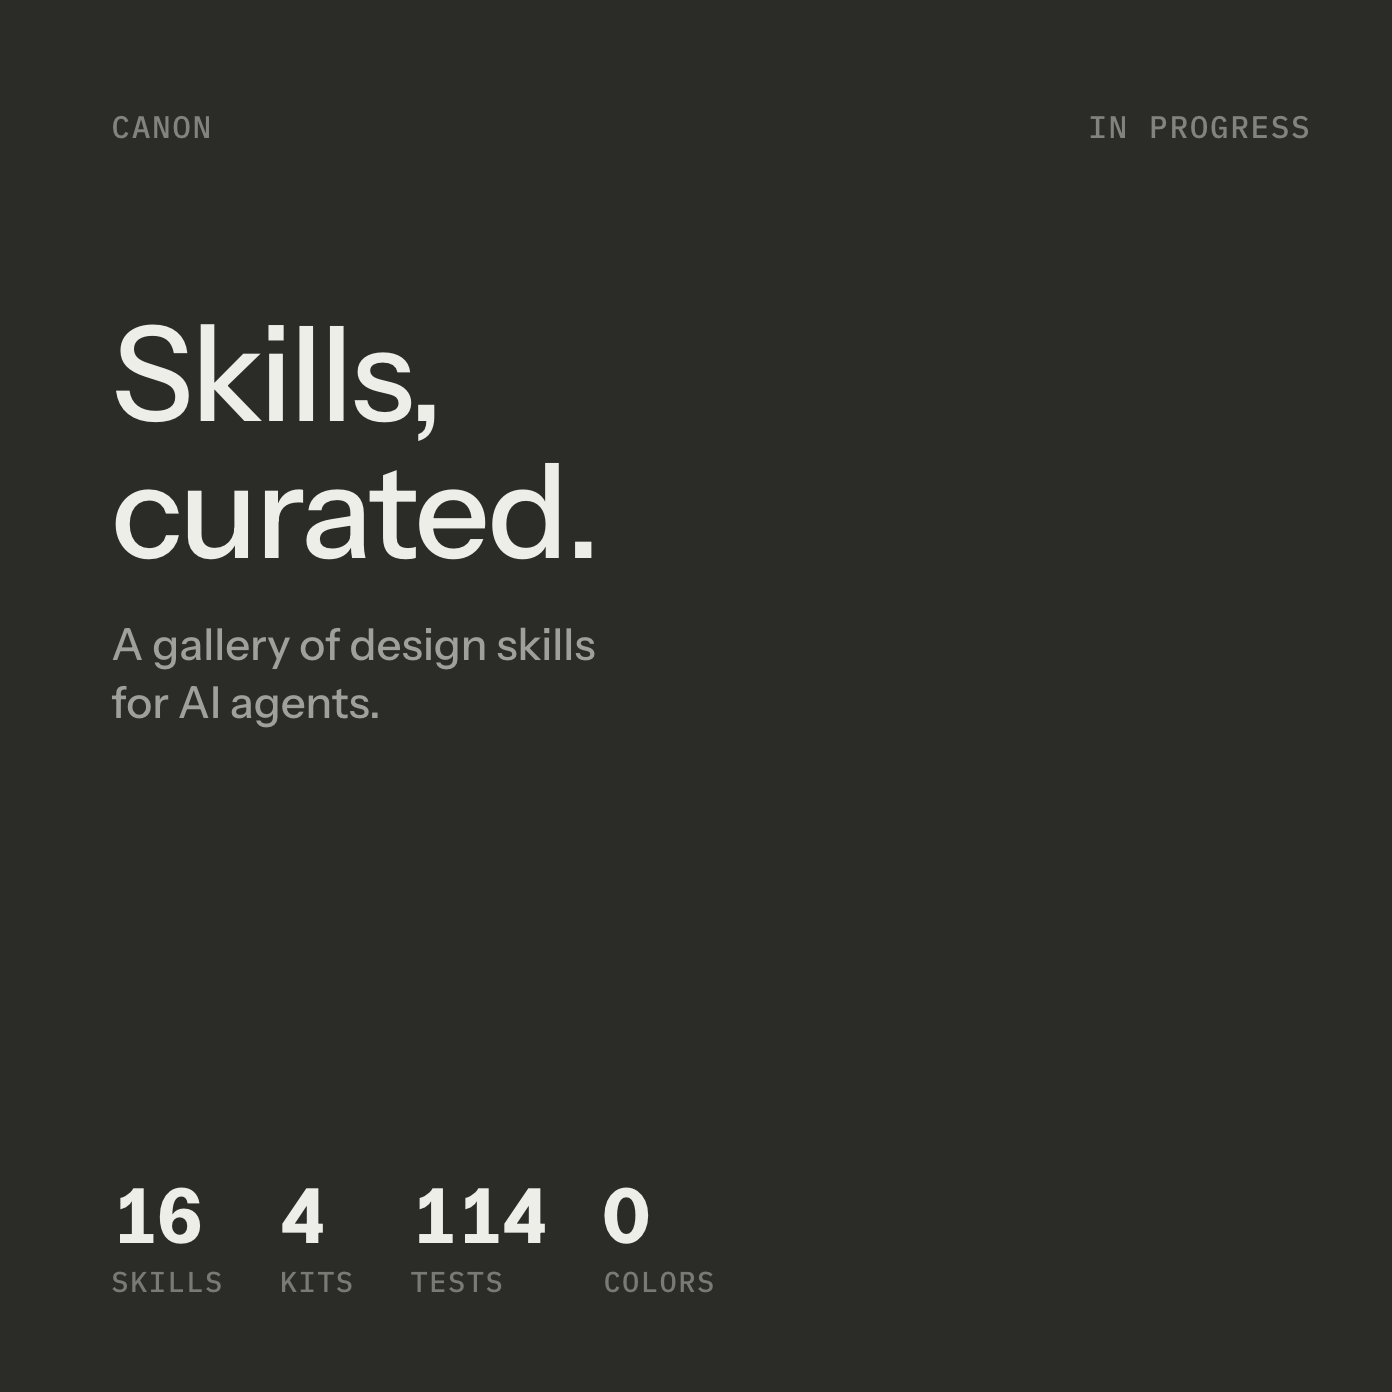
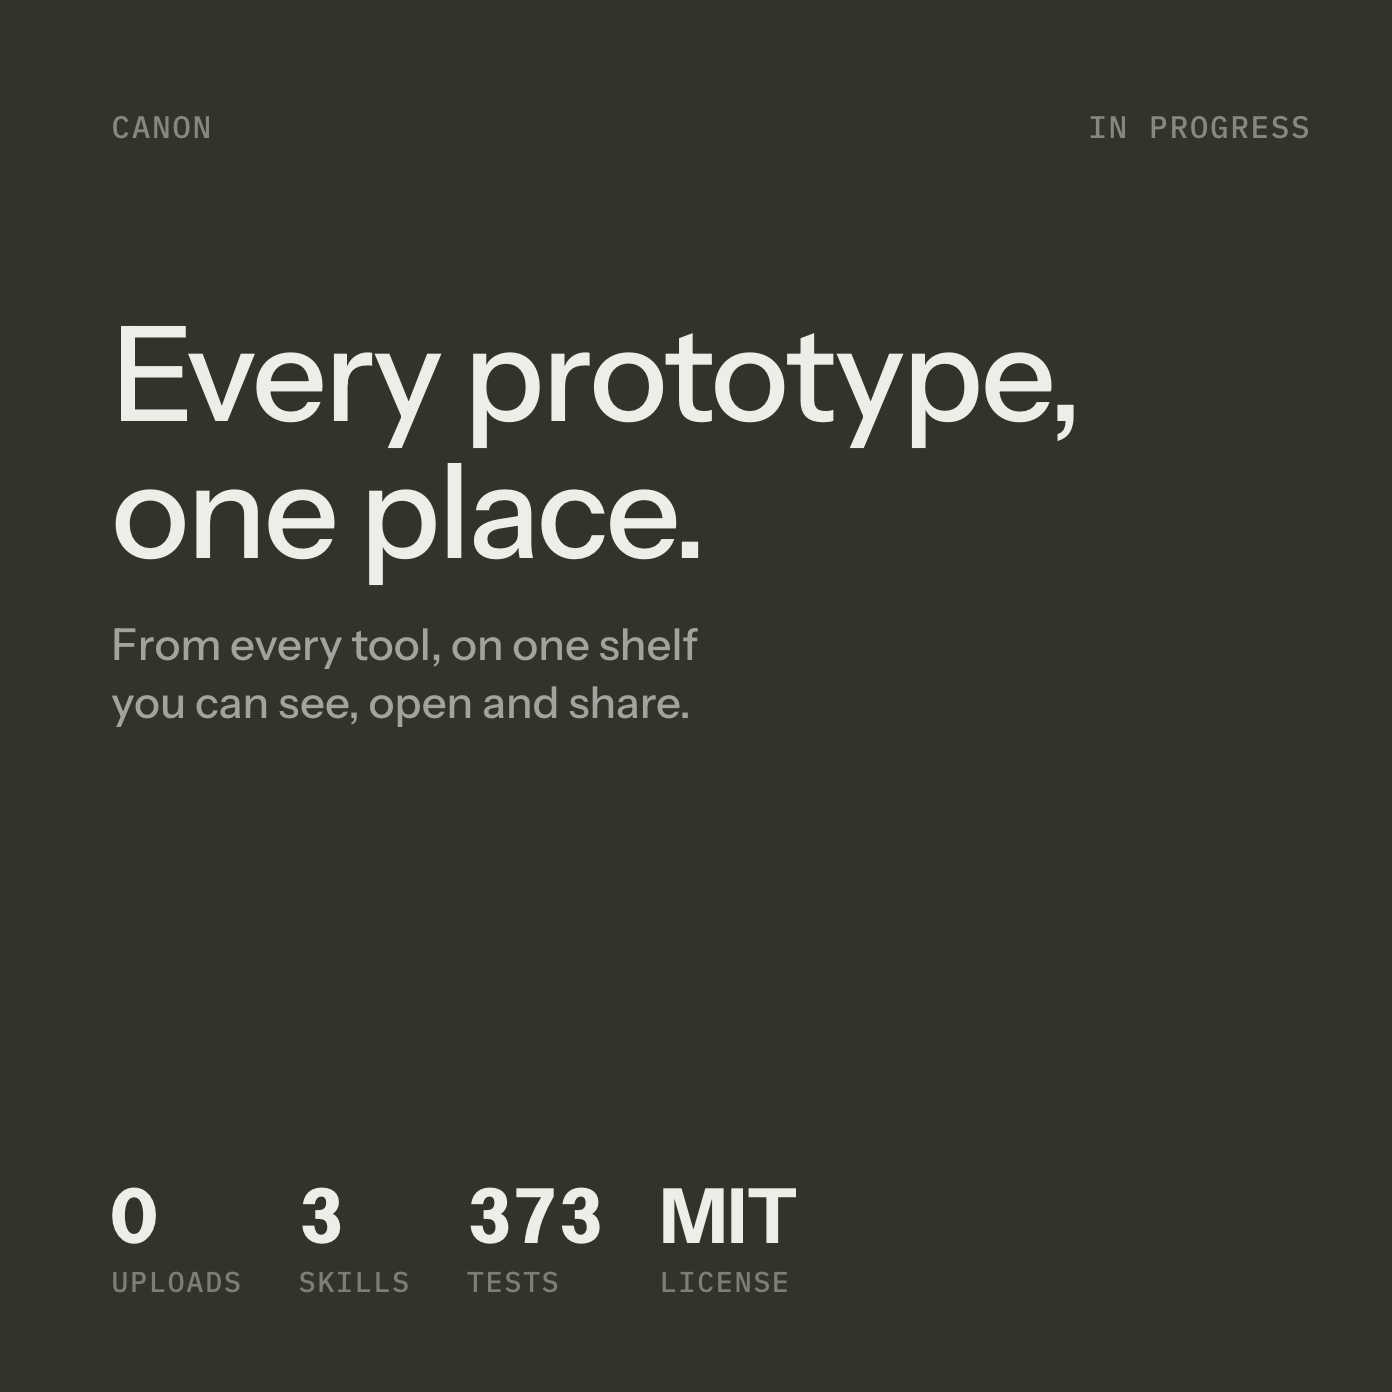
Canon sync: the hero sentence and the share card stop selling the retired gallery, and the case study links the live app

Changed region(s): [[0.0618, 0.2162, 0.7723, 0.5251], [0.1853, 0.8341, 0.5869, 0.9267], [0.0618, 0.8341, 0.1853, 0.9267]]

diff --git a/assets/js/hero.js b/assets/js/hero.js
@@ -30,7 +30,7 @@
     'I <span class="hl_wrap"><a href="/case_studies/pecan/" class="highlight pecan">designed</a><span class="hl_tags" aria-hidden="true"><i class="is_name">PeCan</i><span class="hl_row"><i>UX</i><i>Data Viz</i><i>Design System</i></span></span></span> PeCan so researchers can easily navigate 9,000+ pediatric cancer samples.',
     'I <span class="hl_wrap"><a href="/case_studies/visualization_community/" class="highlight viz">shaped</a><span class="hl_tags" aria-hidden="true"><i class="is_name">Viz Community</i><span class="hl_row"><i>Platform</i><i>Data Viz</i><i>Front-End</i></span></span></span> the platform where St. Jude researchers publish genomic visualizations openly. 80+ are live.',
     'I <span class="hl_wrap"><a href="/case_studies/naturequant/" class="highlight nq">lead</a><span class="hl_tags" aria-hidden="true"><i class="is_name">NatureQuant</i><span class="hl_row"><i>Ongoing</i><i>Brand</i><i>Design System</i></span></span></span> design for NatureQuant end to end, keeping brand, product, and system consistent.',
-    'I\'m <span class="hl_wrap"><a href="/case_studies/canon/" class="highlight canon">building</a><span class="hl_tags" aria-hidden="true"><i class="is_name">Canon</i><span class="hl_row"><i>In Progress</i><i>AI Tooling</i><i>Curation</i></span></span></span> Canon, where design skills for AI agents are curated carefully, not scraped.'
+    'I\'m <span class="hl_wrap"><a href="/case_studies/canon/" class="highlight canon">building</a><span class="hl_tags" aria-hidden="true"><i class="is_name">Canon</i><span class="hl_row"><i>In Progress</i><i>AI Tooling</i><i>Open Source</i></span></span></span> Canon, a home for every prototype, from every tool.'
   ];
 
   var pendingCharTimeouts = [];

diff --git a/case_studies/canon.html b/case_studies/canon.html
@@ -4,7 +4,8 @@ permalink: /case_studies/canon/
 title: "Canon Case Study \u2013 James Madson"
 description: "Canon keeps every prototype, from every tool, in one place. It started as a gallery of other people's design skills, turned into three skills of my own, and became a local-first app for the mess AI prototyping leaves behind. A build log in progress by James Madson."
 ogImage: "/img/covers/canon@2x.png"
-ogImageHeight: "1200"
+ogImageWidth: "1392"
+ogImageHeight: "1392"
 preloads:
   - "/img/covers/ambient/canon.jpg"
 jsonld: |
@@ -356,7 +357,7 @@ jsonld: |
           <li><span class="canon_changelog_date">Jul 2026</span> First eleven curated skills, structure maps, faceted gallery. Since retired.</li>
         </ul>
         <p class="canon_closing">Still building. The skills are shipped. The app runs locally and is headed for its first real team. The open questions above are genuinely open.</p>
-        <p class="canon_closing"><a href="https://github.com/jamesmadson/canon" class="inline_link" target="_blank" rel="noreferrer">Canon on GitHub</a></p>
+        <p class="canon_closing"><a href="https://jamesmadson.github.io/canon/" class="inline_link" target="_blank" rel="noreferrer">Try Canon</a> · <a href="https://github.com/jamesmadson/canon" class="inline_link" target="_blank" rel="noreferrer">Canon on GitHub</a></p>
       </div>
     </div>
   </section>

diff --git a/tools/covers/canon.html b/tools/covers/canon.html
@@ -7,20 +7,20 @@
 <link rel="stylesheet" href="covers.css">
 <style>body{margin:0}</style>
 
-<article class="cover" style="--bg:#2B2B28;width:1200px">
+<article class="cover" style="--bg:#33332C;width:1200px">
   <header class="cover__top">
     <span class="cover__label">Canon</span>
     <span class="cover__status">In Progress</span>
   </header>
-  <h2 class="cover__headline">Skills,<br>curated.</h2>
-  <p class="cover__subhead">A gallery of design skills<br>for AI agents.</p>
+  <h2 class="cover__headline">Every prototype,<br>one place.</h2>
+  <p class="cover__subhead">From every tool, on one shelf<br>you can see, open and share.</p>
   <footer class="cover__foot">
     <div class="cover__rule"></div>
     <dl class="cover__stats">
-      <div class="cover__stat"><b>16</b><span>Skills</span></div>
-      <div class="cover__stat"><b>4</b><span>Kits</span></div>
-      <div class="cover__stat"><b>114</b><span>Tests</span></div>
-      <div class="cover__stat"><b>0</b><span>Colors</span></div>
+      <div class="cover__stat"><b>0</b><span>Uploads</span></div>
+      <div class="cover__stat"><b>3</b><span>Skills</span></div>
+      <div class="cover__stat"><b>373</b><span>Tests</span></div>
+      <div class="cover__stat"><b>MIT</b><span>License</span></div>
     </dl>
   </footer>
 </article>
